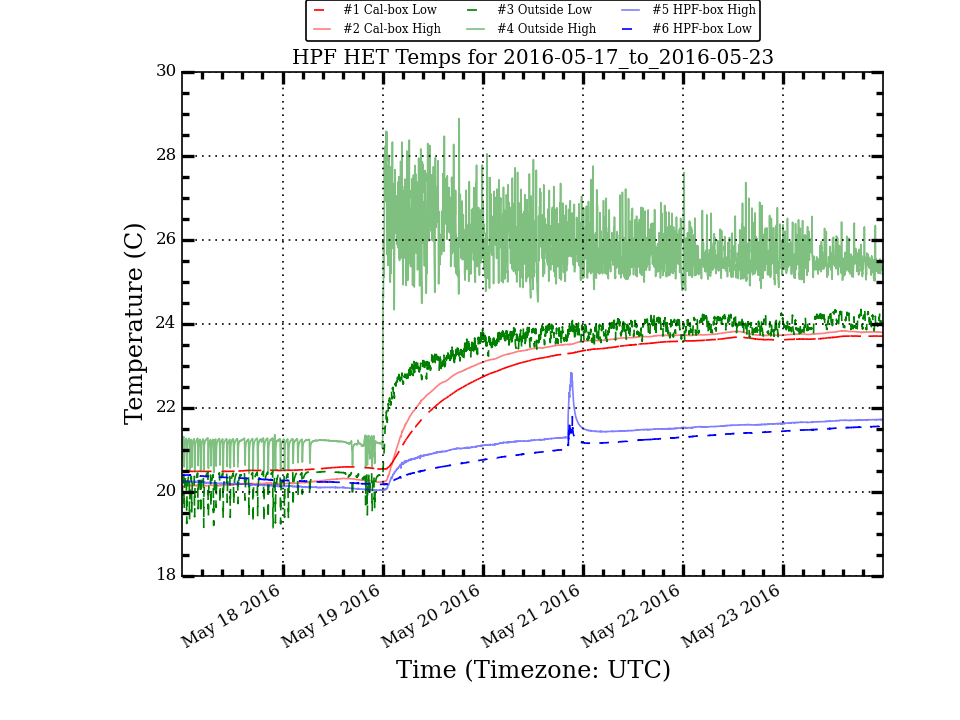
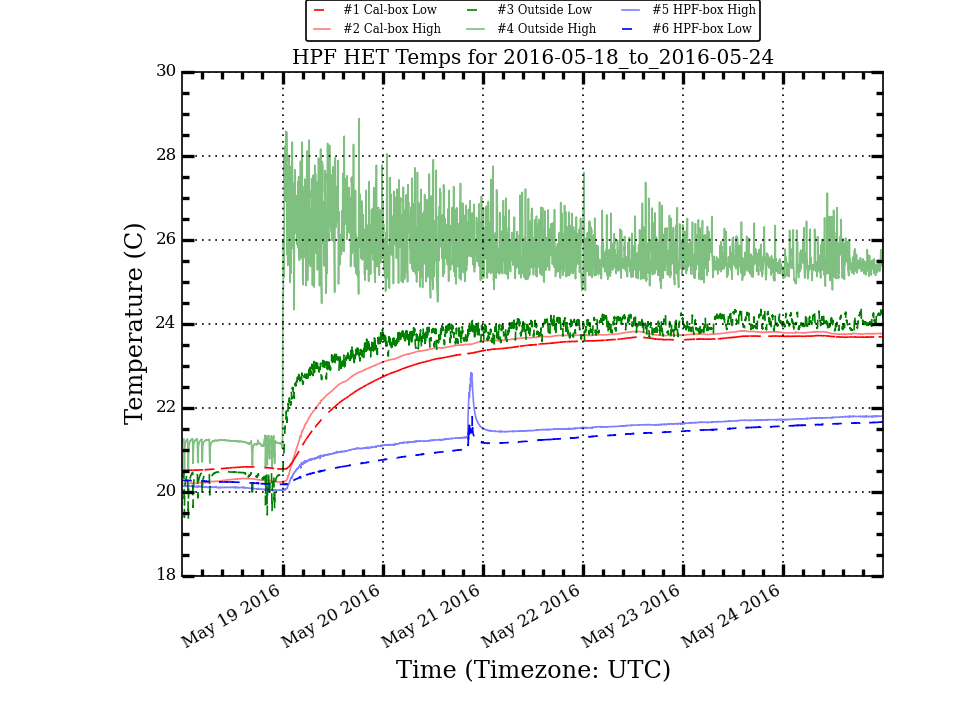
Update HPF Temp Plots

diff --git a/research/hpf_temps/plots/LakeShoreLogTotal_week_stats.html b/research/hpf_temps/plots/LakeShoreLogTotal_week_stats.html
@@ -10,54 +10,54 @@
  </TR>
  <TR>
   <TD>Cal_Low</TD>
-  <TD>22.401</TD>
-  <TD>1.347</TD>
-  <TD>23.149</TD>
-  <TD>23.715</TD>
-  <TD>20.484</TD>
-  <TD>3.231</TD>
+  <TD>22.858</TD>
+  <TD>1.153</TD>
+  <TD>23.504</TD>
+  <TD>23.724</TD>
+  <TD>20.514</TD>
+  <TD>3.210</TD>
  </TR>
  <TR>
   <TD>Cal_High</TD>
-  <TD>22.457</TD>
-  <TD>1.540</TD>
-  <TD>23.414</TD>
+  <TD>22.972</TD>
+  <TD>1.271</TD>
+  <TD>23.677</TD>
   <TD>23.839</TD>
-  <TD>20.140</TD>
-  <TD>3.699</TD>
+  <TD>20.196</TD>
+  <TD>3.643</TD>
  </TR>
  <TR>
   <TD>Out_Low</TD>
-  <TD>22.736</TD>
-  <TD>1.593</TD>
-  <TD>23.664</TD>
-  <TD>24.349</TD>
-  <TD>19.149</TD>
-  <TD>5.200</TD>
+  <TD>23.278</TD>
+  <TD>1.263</TD>
+  <TD>23.835</TD>
+  <TD>24.373</TD>
+  <TD>19.336</TD>
+  <TD>5.037</TD>
  </TR>
  <TR>
   <TD>Out_High</TD>
-  <TD>24.485</TD>
-  <TD>2.176</TD>
-  <TD>25.428</TD>
+  <TD>25.104</TD>
+  <TD>1.701</TD>
+  <TD>25.496</TD>
   <TD>28.890</TD>
-  <TD>20.447</TD>
-  <TD>8.443</TD>
+  <TD>20.507</TD>
+  <TD>8.383</TD>
  </TR>
  <TR>
   <TD>HPF_High</TD>
-  <TD>21.027</TD>
-  <TD>0.633</TD>
-  <TD>21.232</TD>
+  <TD>21.252</TD>
+  <TD>0.575</TD>
+  <TD>21.488</TD>
   <TD>22.841</TD>
   <TD>20.039</TD>
   <TD>2.802</TD>
  </TR>
  <TR>
   <TD>HPF_Low</TD>
-  <TD>20.883</TD>
-  <TD>0.489</TD>
-  <TD>20.929</TD>
+  <TD>21.065</TD>
+  <TD>0.491</TD>
+  <TD>21.238</TD>
   <TD>21.793</TD>
   <TD>20.173</TD>
   <TD>1.620</TD>

diff --git a/research/hpf_temps/plots/LakeShoreLogTotal_month_stats.html b/research/hpf_temps/plots/LakeShoreLogTotal_month_stats.html
@@ -10,17 +10,17 @@
  </TR>
  <TR>
   <TD>Cal_Low</TD>
-  <TD>23.170</TD>
-  <TD>1.237</TD>
-  <TD>23.597</TD>
+  <TD>23.196</TD>
+  <TD>1.239</TD>
+  <TD>23.634</TD>
   <TD>24.396</TD>
   <TD>20.460</TD>
   <TD>3.936</TD>
  </TR>
  <TR>
   <TD>Cal_High</TD>
-  <TD>23.318</TD>
-  <TD>1.422</TD>
+  <TD>23.328</TD>
+  <TD>1.424</TD>
   <TD>23.819</TD>
   <TD>24.532</TD>
   <TD>20.090</TD>
@@ -28,36 +28,36 @@
  </TR>
  <TR>
   <TD>Out_Low</TD>
-  <TD>23.384</TD>
-  <TD>1.665</TD>
-  <TD>24.104</TD>
+  <TD>23.397</TD>
+  <TD>1.668</TD>
+  <TD>24.116</TD>
   <TD>24.796</TD>
   <TD>17.638</TD>
   <TD>7.158</TD>
  </TR>
  <TR>
   <TD>Out_High</TD>
-  <TD>25.716</TD>
-  <TD>2.230</TD>
-  <TD>26.619</TD>
+  <TD>25.654</TD>
+  <TD>2.209</TD>
+  <TD>26.554</TD>
   <TD>29.728</TD>
   <TD>19.178</TD>
   <TD>10.550</TD>
  </TR>
  <TR>
   <TD>HPF_High</TD>
-  <TD>21.165</TD>
-  <TD>0.709</TD>
-  <TD>21.313</TD>
+  <TD>21.236</TD>
+  <TD>0.657</TD>
+  <TD>21.412</TD>
   <TD>22.841</TD>
-  <TD>19.412</TD>
-  <TD>3.429</TD>
+  <TD>19.834</TD>
+  <TD>3.007</TD>
  </TR>
  <TR>
   <TD>HPF_Low</TD>
-  <TD>20.932</TD>
-  <TD>0.727</TD>
-  <TD>21.032</TD>
+  <TD>21.019</TD>
+  <TD>0.645</TD>
+  <TD>21.156</TD>
   <TD>21.991</TD>
   <TD>9.505</TD>
   <TD>12.486</TD>
